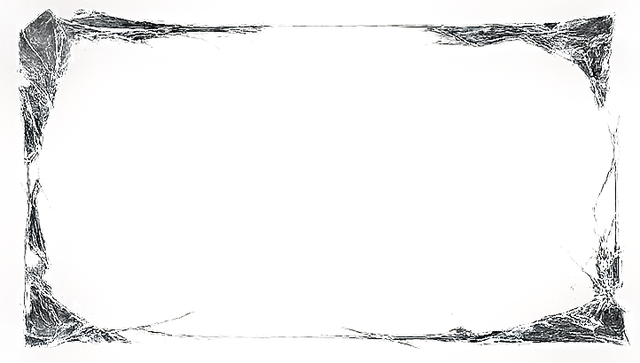
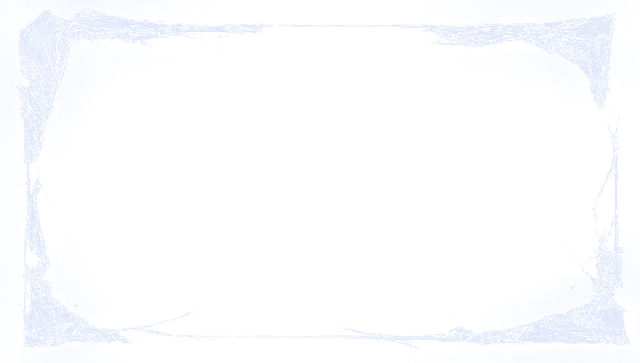
fix(design): fissures claires (blanc glace) visibles sur cartes sombres
Les cadres precedents avaient des fissures SOMBRES (couleur verre dorigine) -> invisibles sur cartes sombres. Regenere avec alpha delicat (high-pass v3) + couleur CLAIRE blanc-bleu glace (222,230,250) comme la ref Lunaris. Cache-buster sur les url border-image (?v=2) + marketplace.css (?v=20260626glass2).

diff --git a/marketplace.css b/marketplace.css
@@ -525,13 +525,13 @@
 .mp-son-card::after {
   content: ""; position: absolute; inset: 0; pointer-events: none; z-index: 3; opacity: .9;
   border: 26px solid transparent;
-  border-image-source: url(/assets/glass/frame1.png);
+  border-image-source: url(/assets/glass/frame1.png?v=2);
   border-image-slice: 118;
   border-image-width: 26px;
   border-image-repeat: stretch;
 }
-.mp-son-card:nth-of-type(3n+2)::after { border-image-source: url(/assets/glass/frame2.png); }
-.mp-son-card:nth-of-type(3n)::after   { border-image-source: url(/assets/glass/frame3.png); }
+.mp-son-card:nth-of-type(3n+2)::after { border-image-source: url(/assets/glass/frame2.png?v=2); }
+.mp-son-card:nth-of-type(3n)::after   { border-image-source: url(/assets/glass/frame3.png?v=2); }
 
 .mp-son-card:hover {
   transform: translateY(-4px);

diff --git a/index.html b/index.html
@@ -13,7 +13,7 @@
   <link rel="stylesheet" href="watt-panel.css" />
   <link rel="stylesheet" href="/topbar.css" />
   <!-- Phase 2 refonte marketplace : hero + vitrine Smyle + rankings + listes -->
-  <link rel="stylesheet" href="marketplace.css?v=20260626glass" />
+  <link rel="stylesheet" href="marketplace.css?v=20260626glass2" />
   <script src="watt-cards.js?v=20260626watt2" defer></script>
   <!-- C0 design system (blueprint VF 2026-06-10) : tokens + pilules 3 repères -->
   <link rel="stylesheet" href="/ui/core/tokens.css" />
